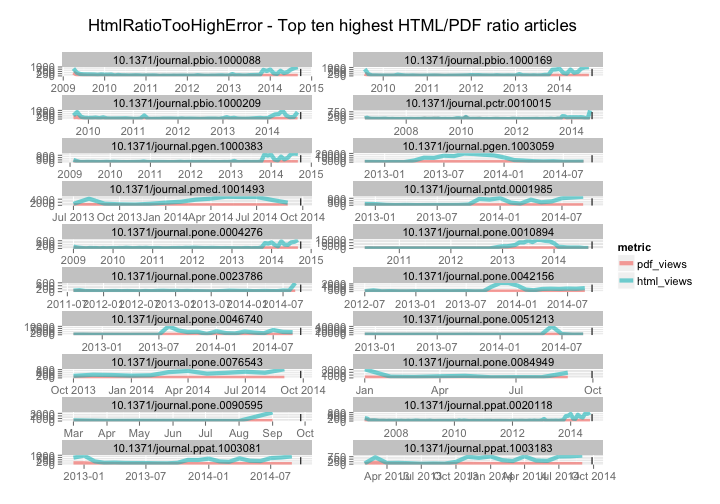
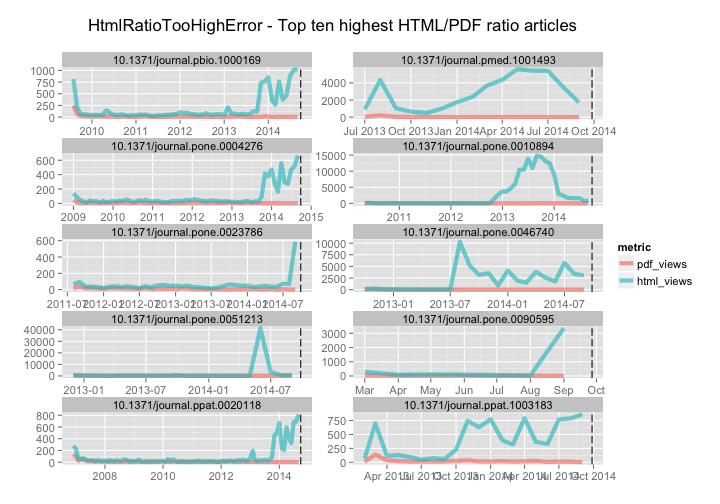
outliers update

diff --git a/alerts/outliers_workflow.md b/alerts/outliers_workflow.md
@@ -75,7 +75,7 @@ Extract top N articles, get DOIs
 
 
 ```r
-num_get <- 20
+num_get <- 10
 toinspect <- res[1:num_get,] %>% select(-class)
 (dois <- toinspect$article)
 ```
@@ -86,11 +86,6 @@ toinspect <- res[1:num_get,] %>% select(-class)
 ##  [5] "10.1371/journal.pmed.1001493" "10.1371/journal.pone.0090595"
 ##  [7] "10.1371/journal.ppat.1003183" "10.1371/journal.ppat.0020118"
 ##  [9] "10.1371/journal.pbio.1000169" "10.1371/journal.pone.0004276"
-## [11] "10.1371/journal.pone.0084949" "10.1371/journal.pctr.0010015"
-## [13] "10.1371/journal.pone.0076543" "10.1371/journal.pntd.0001985"
-## [15] "10.1371/journal.pbio.1000209" "10.1371/journal.pgen.1000383"
-## [17] "10.1371/journal.pbio.1000088" "10.1371/journal.pone.0042156"
-## [19] "10.1371/journal.ppat.1003081" "10.1371/journal.pgen.1003059"
 ```
 
 Browse to an article
@@ -126,7 +121,7 @@ gg <- function(){
 }
 ```
 
-Plot html and pdf views, just top 20
+Plot html and pdf views, just top 10
 
 
 ```r
@@ -138,7 +133,7 @@ alldf %>%
 
 ![plot of chunk unnamed-chunk-10](figure/unnamed-chunk-10.png) 
 
-The HTML/PDF ratio, just top 20
+The HTML/PDF ratio, just top 10
 
 
 ```r
@@ -206,18 +201,11 @@ Are the high value offender DOIs associated with other alm metrics, like social 
 dat <- alm_ids(res$article[1:50], source = c("facebook","twitter","mendeley","reddit","scopus","wikipedia"))
 datdf <- rbind_all(dat$data)
 datdf$article <- rep(res$article[1:50], each = 6)
-```
-
-```
-## Error: replacement has 300 rows, data has 0
-```
-
-```r
 datdf <- inner_join(datdf, res %>% filter(article %in% res$article[1:20]) %>% select(article, val) )
 ```
 
 ```
-## Error: No common variables. Please specify `by` param.
+## Joining by: "article"
 ```
 
 ```r
@@ -230,9 +218,7 @@ datdf %>%
     theme(legend.position="none")
 ```
 
-```
-## Error: At least one layer must contain all variables used for facetting
-```
+![plot of chunk unnamed-chunk-14](figure/unnamed-chunk-14.png) 
 
 
 Detect spikes/patterns in signals through time
